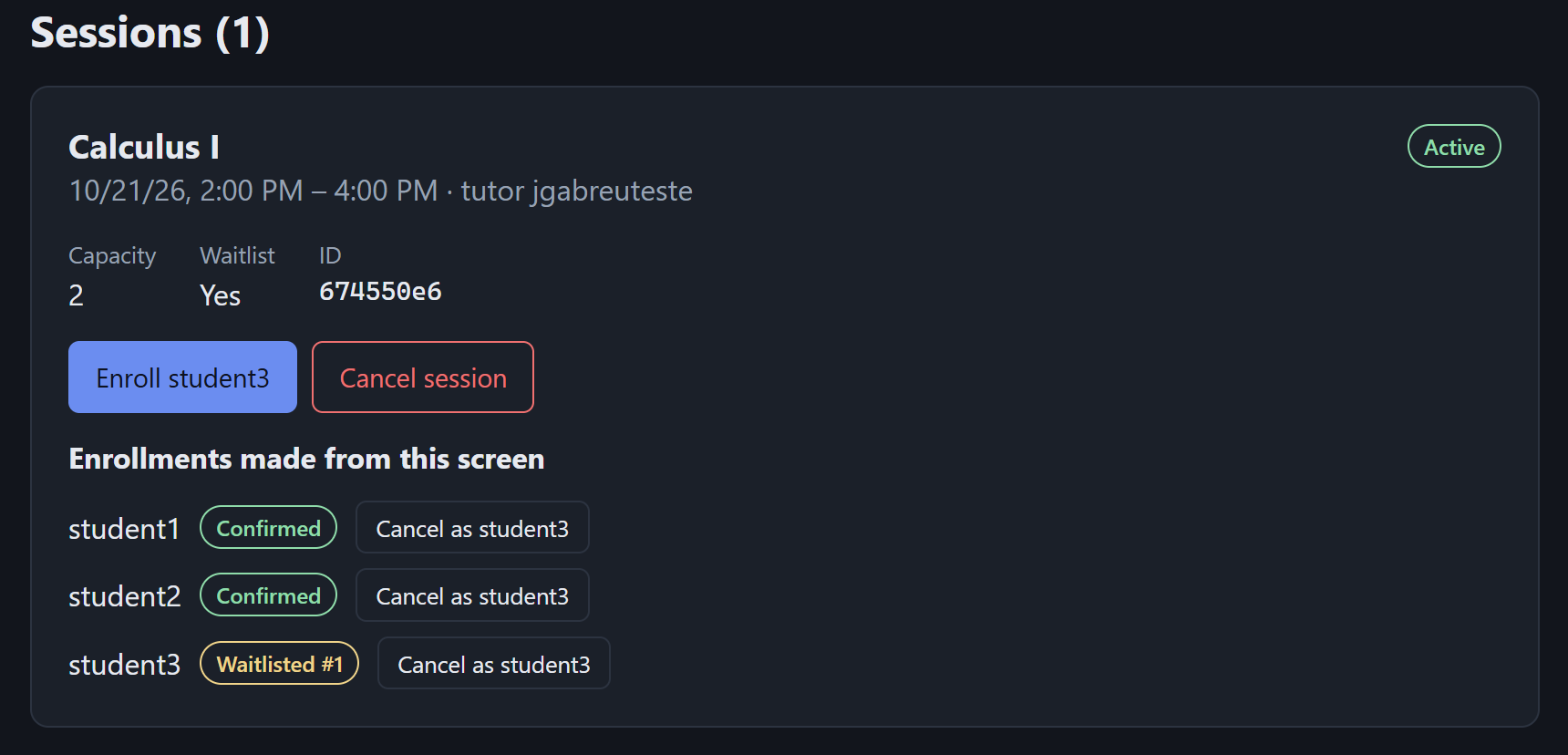
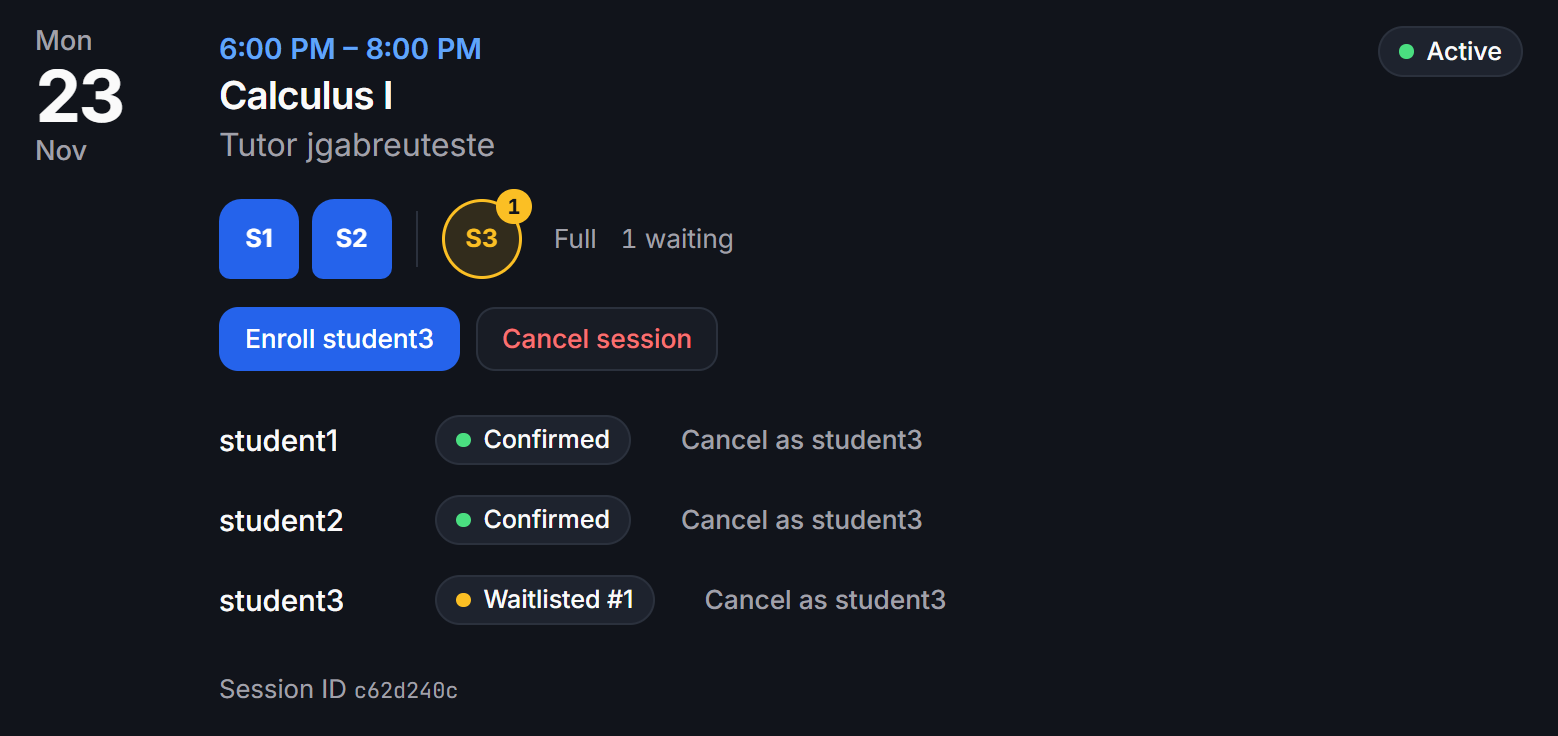
docs: update the screenshots and the stack for the new design

diff --git a/frontend/docs/USAGE.md b/frontend/docs/USAGE.md
@@ -27,12 +27,12 @@ Log in with a user's email and password (`senha123` for the sample users); the b
 
 The session lives only in memory: reloading the page, or a token that expires after 2 hours, brings back the login screen.
 
-## 2. Create a subject ("1. Subjects" tab)
+## 2. Create a subject ("Subjects" in the sidebar)
 
 1. As **any user**, suggest a subject (e.g. "Linear Algebra"). It starts as **Pending**.
 2. Switch to the **admin** and click **Approve**. Only approved subjects accept tutors.
 
-## 3. Make someone a tutor ("2. Tutoring bonds" tab)
+## 3. Make someone a tutor ("Tutoring bonds" in the sidebar)
 
 1. As the **future tutor**, pick the approved subject and click **Request**. The bond starts as **Pending**.
 2. As the **admin**, click **Approve**. That user is now a tutor for *that* subject, and the admin becomes the bond's **evaluator**.
@@ -41,7 +41,7 @@ The tutor role is per subject: the same user can tutor one subject and be a stud
 
 > With the Docker sample data, the tutor already has an approved bond for Calculus I, so you can skip straight to step 4.
 
-## 4. Create a session ("3. Sessions" tab)
+## 4. Create a session ("Sessions" in the sidebar)
 
 1. As the **tutor** (or the bond's evaluator), pick the approved bond.
 2. Set the start, end and capacity, and check **"Allow waitlist"** to queue students once it fills up.
@@ -50,7 +50,7 @@ Tip: a capacity of 1 with the waitlist on is the quickest way to see the queue i
 
 ## 5. Enroll students
 
-1. Switch to a **student** and click **Enroll** on the session card. With a free spot, the enrollment is **Confirmed**.
+1. Switch to a **student** and click **Enroll** on the session. With a free spot, the enrollment is **Confirmed** and takes a seat in the seat map.
 2. Once the session is full, the next students go onto the **waitlist** with their queue position (#1, #2...). Without a waitlist, the API rejects the enrollment with `409`.
 
 ## 6. Cancel an enrollment
@@ -60,12 +60,12 @@ As **the student themselves**, click **Cancel** on their enrollment. If they wer
 ## 7. Cancel the session or revoke the bond
 
 - **Cancel session:** only the bond's **evaluator** (the admin who approved it).
-- **Revoke bond** (tab 2, as admin): the tutor loses the bond and **all of their future sessions** are cancelled in cascade.
+- **Revoke bond** (Tutoring bonds, as admin): the tutor loses the bond and **all of their future sessions** are cancelled in cascade.
 
 ## v1 limitations you'll notice
 
 - The API has no `GET` endpoints yet, so the lists show **only what this screen created** (stored in the browser). Changes the server makes to other records, such as a waitlist promotion or the revocation cascade, happen in the database but don't show up on screen.
-- The **"Clear local data"** button in the yellow notice wipes those lists from the browser. It doesn't delete anything from the database.
+- The **"Clear local data"** button in the note at the top of each screen wipes those lists from the browser. It doesn't delete anything from the database.
 
 ## Without this client
 

diff --git a/frontend/README.md b/frontend/README.md
@@ -8,7 +8,10 @@
 Web client for the [Tutoring Management API](https://github.com/jg-abreu/tutoring-management-api). It covers the whole flow in the browser: suggesting and approving subjects, requesting and evaluating tutoring bonds, creating and cancelling sessions, enrolling students and cancelling enrollments (with a waitlist).
 
 <p align="center">
-  <img src="docs/images/session-waitlist.png" alt="A Calculus I session with capacity 2: two students confirmed and a third on the waitlist at position 1" width="720">
+  <picture>
+    <source media="(prefers-color-scheme: light)" srcset="docs/images/session-waitlist-light.png">
+    <img src="docs/images/session-waitlist.png" alt="A Calculus I session with capacity 2 shown as a seat map: two seats taken by student1 and student2, and student3 first on the waitlist" width="720">
+  </picture>
 </p>
 
 The business rules, the database and the tests live in the API repository; this client exists to demo them.
@@ -18,7 +21,8 @@ The business rules, the database and the tests live in the API repository; this 
 - **React 19** + **TypeScript**
 - **Vite** (dev server and build)
 - **oxlint** (linting)
-- No UI, state or HTTP libraries: native `fetch`, Context API, plain CSS with variables and automatic dark mode
+- No UI, state or HTTP libraries: native `fetch`, Context API and plain CSS
+- Same visual identity as [joaoabreu.dev](https://joaoabreu.dev): its color tokens, Inter and JetBrains Mono (through Fontsource, bundled with the build), dark and light themes with a toggle that remembers the choice
 
 ## Running
 
@@ -57,7 +61,7 @@ Open `http://localhost:3000`. nginx serves the build and forwards `/api/` to the
 
 ### Logging in
 
-The client opens on a login screen. The sample users from the API's seed all use the password `senha123`, and the buttons under the form fill them in. The token is kept in memory only, so reloading the page logs out; a `401` from the API (expired or invalid token) also brings back the login screen.
+The client opens on a login screen. The sample users from the API's seed all use the password `senha123`, and picking one in the sample users list fills in the form. The token is kept in memory only, so reloading the page logs out; a `401` from the API (expired or invalid token) also brings back the login screen.
 
 ### Commands
 
@@ -73,7 +77,7 @@ The client opens on a login screen. The sample users from the API's seed all use
 ```
 src/
 ├── api/          central HTTP client and one function per API endpoint
-├── components/   reusable components (status badge, messages, logged-in user bar)
+├── components/   reusable components (header, sidebar, theme toggle, seat map, status badge, messages)
 ├── config/       temporary test data (users and database records)
 ├── context/      shared state (session: token and current user; known records)
 ├── features/     one folder per screen: login, subjects, bonds, sessions
